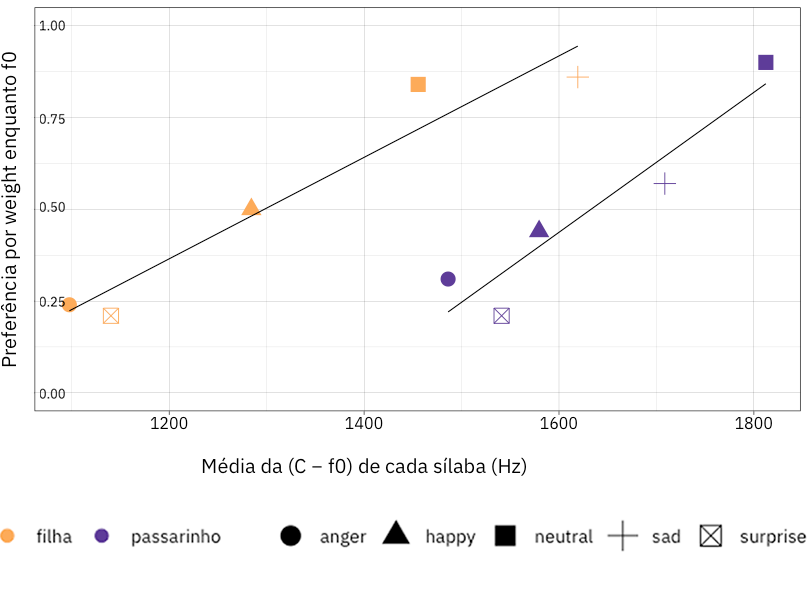
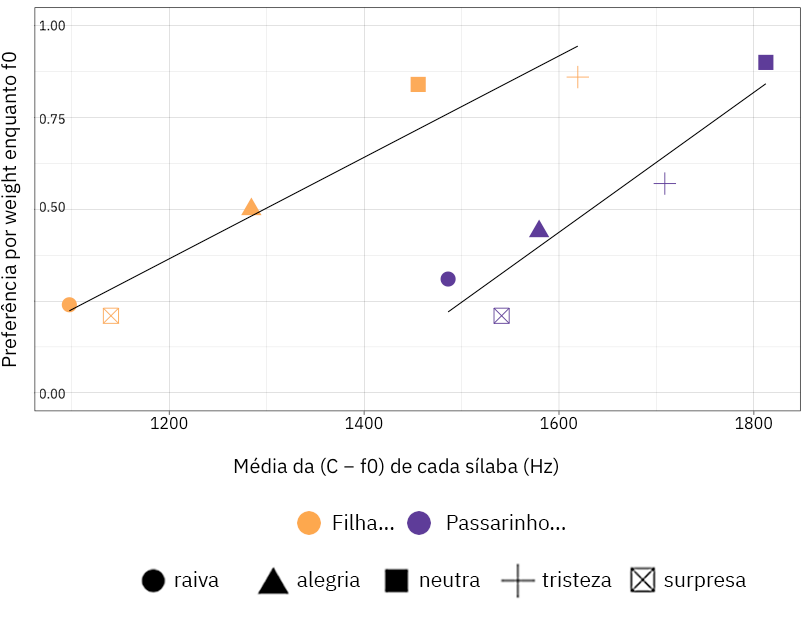
gráficos um pouco melhores... mas ainda ruins :/

diff --git a/main.tex b/main.tex
@@ -385,21 +385,21 @@ Outra conclusão interessante é que tanto \textit{largura horizontal} quando \t
 
 Se quando fizemos o primeiro e segundo experimentos ainda não conhecíamos alternativas mais robustas que o \textsc{rms} para medir intensidade, na análise dos dados do segundo experimento nos pareceu oportuno nos aproveitarmos da medida obtida pela distância entre a Frequência fundamental ($f_0$) e a Centroide espectral ($C-f_0$) -- \textit{feature} com a qual havíamos acabado de ter contato que, como \textsc{rms}, está relacionada à intensidade, mas que ao contrário desta captura o esforço vocal do falante com maior independência de particularidades do ambiente de gravação. Apesar de que a \textit{feature} não foi utilizada para modular a tipografia, os participantes tiveram acesso aos áudios originais, de onde por suposto conseguiram deduzir o esforço vocal da atriz o que, supomos, entrou em consideração em suas escolhas.
 
-\begin{marginfigure}[-2\baselineskip]
+\begin{marginfigure}
   \includegraphics{imgs/weight--f0.png}
   \caption{Relação entre performance de \textit{weight} e $C-f_0$}
   \label{weight_as_f0}
 \end{marginfigure}
 
-Na figura~\ref{weight_as_f0}, mostramos como a performance do eixo \textit{weight}, quando usado para representar a $f_0$, está relacionado ao valor $C-f_0$ médio de cada frase. Para a frase ``Filha'', encontramos uma equação de regressão significante\sidenote[][2\baselineskip]{``Filha'': (F(1,3)=39.27, p<0.05), \textsc{rse}=0.09; ``Passarinho'': (F(1,3)=24.07, p<0.05), \textsc{rse}=0.10} com um $R^2$ de 0,93 e fórmula de performance de $(C-f_0) * 10^{-3} - 1,29$. Para a frase ``Passarinho'', também encontramos uma equação de regressão significante com um $R^2$ de 0,89 e fórmula de performance de $(C-f_0) * 10^{-3} - 2,61$.
+Na figura~\ref{weight_as_f0}, mostramos como a performance do eixo \textit{weight}, quando usado para representar a $f_0$, está relacionado ao valor $C-f_0$ médio de cada frase. Para a frase ``Filha'', encontramos uma equação de regressão significante\sidenote{``Filha'': (F(1,3)=39.27, p<0.05), \textsc{rse}=0.09; ``Passarinho'': (F(1,3)=24.07, p<0.05), \textsc{rse}=0.10} com um $R^2$ de 0,93 e fórmula de performance de $(C-f_0) * 10^{-3} - 1,29$. Para a frase ``Passarinho'', também encontramos uma equação de regressão significante com um $R^2$ de 0,89 e fórmula de performance de $(C-f_0) * 10^{-3} - 2,61$.
 
-Já na figura~\ref{baseline_shift_as_f0}, tomamos a performance do eixo \textit{baseline shift} representando $f_0$ e a relacionamos às mudanças de $C - f_0$ nas duas frases. As retas aqui se invertem, e as preferências dos participantes estão inversamente correlacionadas aos valores de $C-f_0$, ainda que neste caso as equações de regressão não tenham sido significantes\footnote{``Filha'': (F(1,3)=1.36, p=0.33), \textsc{rse}=0.23; ``Passarinho'': (F(1,3)=5.26, p=0.11), \textsc{rse}=0.16} -- são, portanto, mostradas como linhas tracejadas.
-
-\begin{marginfigure}[2\baselineskip]
+\begin{marginfigure}
   \includegraphics{imgs/baseline_shift--f0.png}
   \caption{Relação entre performance de \textit{baseline shift} e $C-f_0$}
   \label{baseline_shift_as_f0}
 \end{marginfigure}
+
+Já na figura~\ref{baseline_shift_as_f0}, tomamos a performance do eixo \textit{baseline shift} representando $f_0$ e a relacionamos às mudanças de $C - f_0$ nas duas frases. As retas aqui se invertem, e as preferências dos participantes estão inversamente correlacionadas aos valores de $C-f_0$, ainda que neste caso as equações de regressão não tenham sido significantes\footnote{``Filha'': (F(1,3)=1.36, p=0.33), \textsc{rse}=0.23; ``Passarinho'': (F(1,3)=5.26, p=0.11), \textsc{rse}=0.16} -- são, portanto, mostradas como linhas tracejadas.
 
 Sintetizando os dois achados, vemos que conforme aumenta o esforço vocal no áudio aumenta também a preferência pelo uso do eixo \textit{weight}. Em frases ditas com menor intensidade os participantes preferem, ainda que de maneira mais difusa, o uso do \textit{baseline shift}.
 
